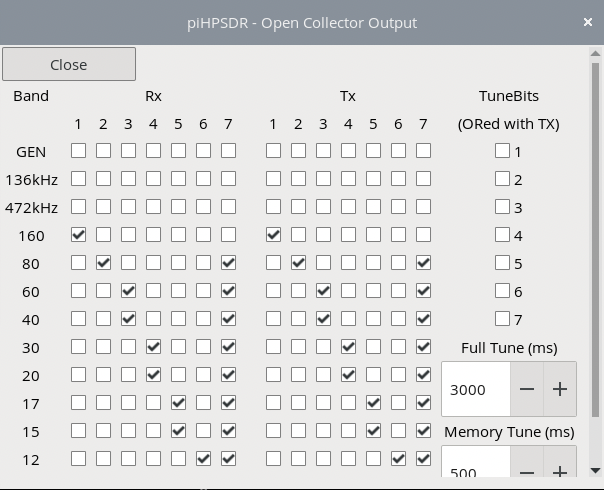
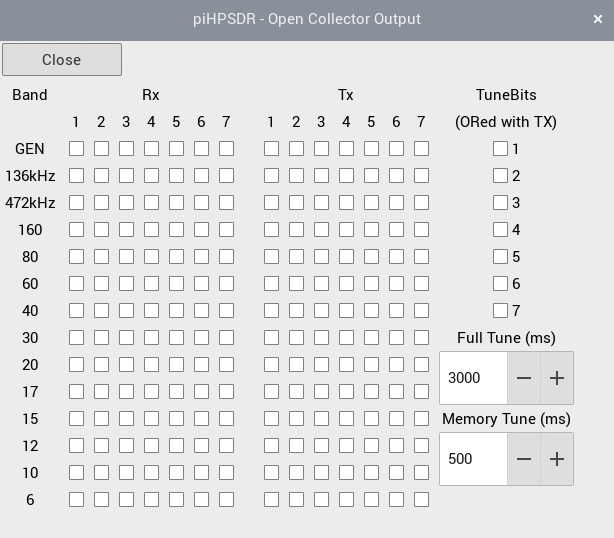
updated the Manual

diff --git a/release/LatexManual/piHPSDR-Manual.tex b/release/LatexManual/piHPSDR-Manual.tex
@@ -3551,8 +3551,8 @@ bit pattern.
 
 For non-HPSDR radios, the \bltt{OC} menu does not appear in the main menu. Since
 transverter bands are also shown at the bottom of the list, the \bltt{OC}
-menu may become rather high, in this case its height is restricted to the
-screen size and a vertical scroll bar is added.
+menu may become rather tall, so a scroll bar may appear on at the right
+margin for small screens.
 
 To facilitate control of an automatic tuner, there are seven \rett{TuneBits}
 which are OR-ed with the bit pattern chosen for TX on the actual band,
@@ -3625,17 +3625,19 @@ If the \bltt{Toolbar} menu is opened, it looks like Fig. \ref{fig:ToolbarMenu1}.
 The rows correspond to the six different layers, and the rightmost button in each
 row indicates to which layer this row belongs. Now imagine we want to replace
 the \bltt{CTUN} command by \bltt{Duplex} in the row \rett{FNC(1)}. To this end
-we click the \bltt{CTUN} button (the third from the left in the row \rett{FNC(1)}) and
-a   ,,command dialog'' pops up that looks as
+we click the \bltt{CTUN} button (marked with a red circle) and
+a  ,,chooser dialog'' pops up that looks as
 in Fig. \ref{fig:ToolbarMenu2}.
 
 
-\begin{figure}[ht!]
-\center
-\includegraphics[scale=0.45]{ToolbarMenu3.png}
-\caption{Just selected \texttt{Duplex}.}
-\label{fig:ToolbarMenu3}
-\end{figure}
+Because the list of possible functions to choose from is so long, the height of the menu
+is restricted even if screen space permits, so it always contains a scrollbar at the right
+margin that you may need to use to scroll through the list of functions.
+The current command selected (\texttt{CTUN}) is high-lighted (you may need to scroll down
+to see it). Then click the button labelled with \bltt{Duplex} (in this example you can
+already see it, but again it may be necessary to scroll down). After clicking the desired
+button, that one gets highlighted.
+
 
 \begin{figure}[ht!]
 \center
@@ -3644,16 +3646,16 @@ in Fig. \ref{fig:ToolbarMenu2}.
 \label{fig:ToolbarMenu4}
 \end{figure}
 
-Note the scroll-bar at the right of this menu, since without scrolling it would be very tall.
-The current command selected (\texttt{CTUN}) is high-lighted (you may need to scroll down
-to see it). Then click the button labelled with \bltt{Duplex} (in this example you can
-already see it, but again it may be necessary to scroll down). After clicking the desired
-button, that one gets highlighted (Fig. \ref{fig:ToolbarMenu3}).
-If one now closes the command dialog by clicking the \texttt{OK} button, the command select menu
-closes and on sees that in the toolbar menu now reappearing (Fig. \ref{fig:ToolbarMenu4}), the third button
-in the line \rett{FNC(1)} has changed,
+In the top row of the chooser menu, you find two buttons. Pressing \rett{Cancel} closes it
+without any effect (your choice is not reported back), while pressing \rett{Choose} closes
+the menu and reports back your choice, that is, the function currently highlighted.
+So pressing \rett{Choose} after having chosen the \bltt{Duplex} function, the chooser
+menu closes
+and one sees that in the toolbar menu now reappearing (Fig. \ref{fig:ToolbarMenu4}), the third button
+in the line \rett{FNC(1)} (marked by a red circle) has changed,
 it now gives the short text (\texttt{DUP}) of the \bltt{Duplex} command. You can also see
-that the \rett{FNC(1)} toolbar at the bottom of the screen has adopted the change, so
+that the \rett{FNC(1)} toolbar at the bottom of the screen has adopted the change
+(also marked with a red circle), so
 after closing the toolbar menu you can enable/disable \bltt{Duplex} with just one mouse click,
 without first opening the \bltt{Radio} menu.
 
